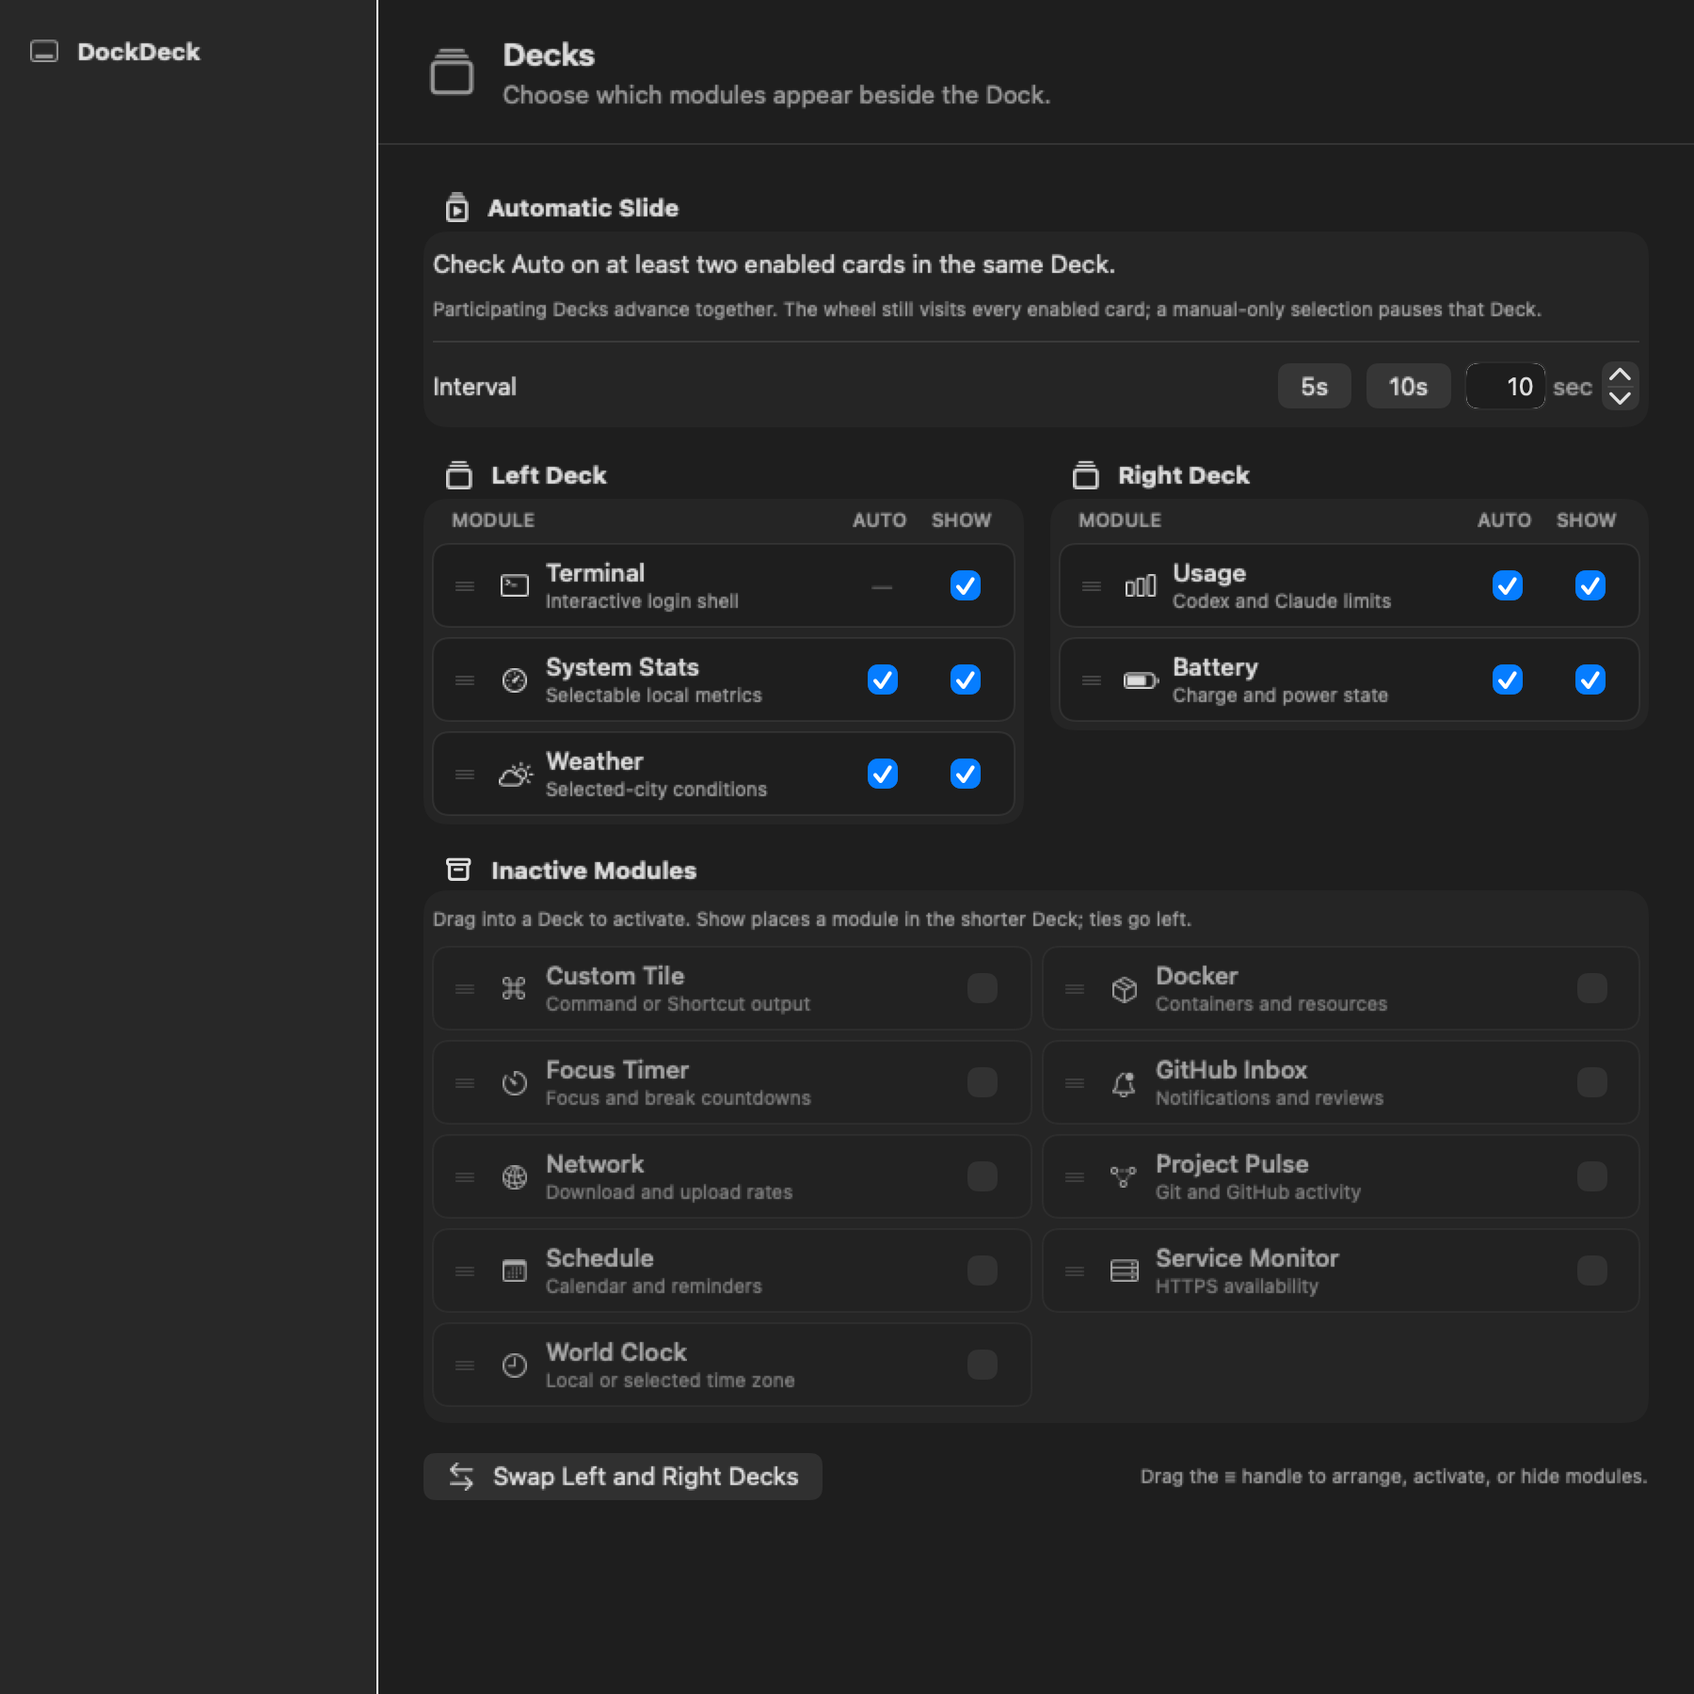
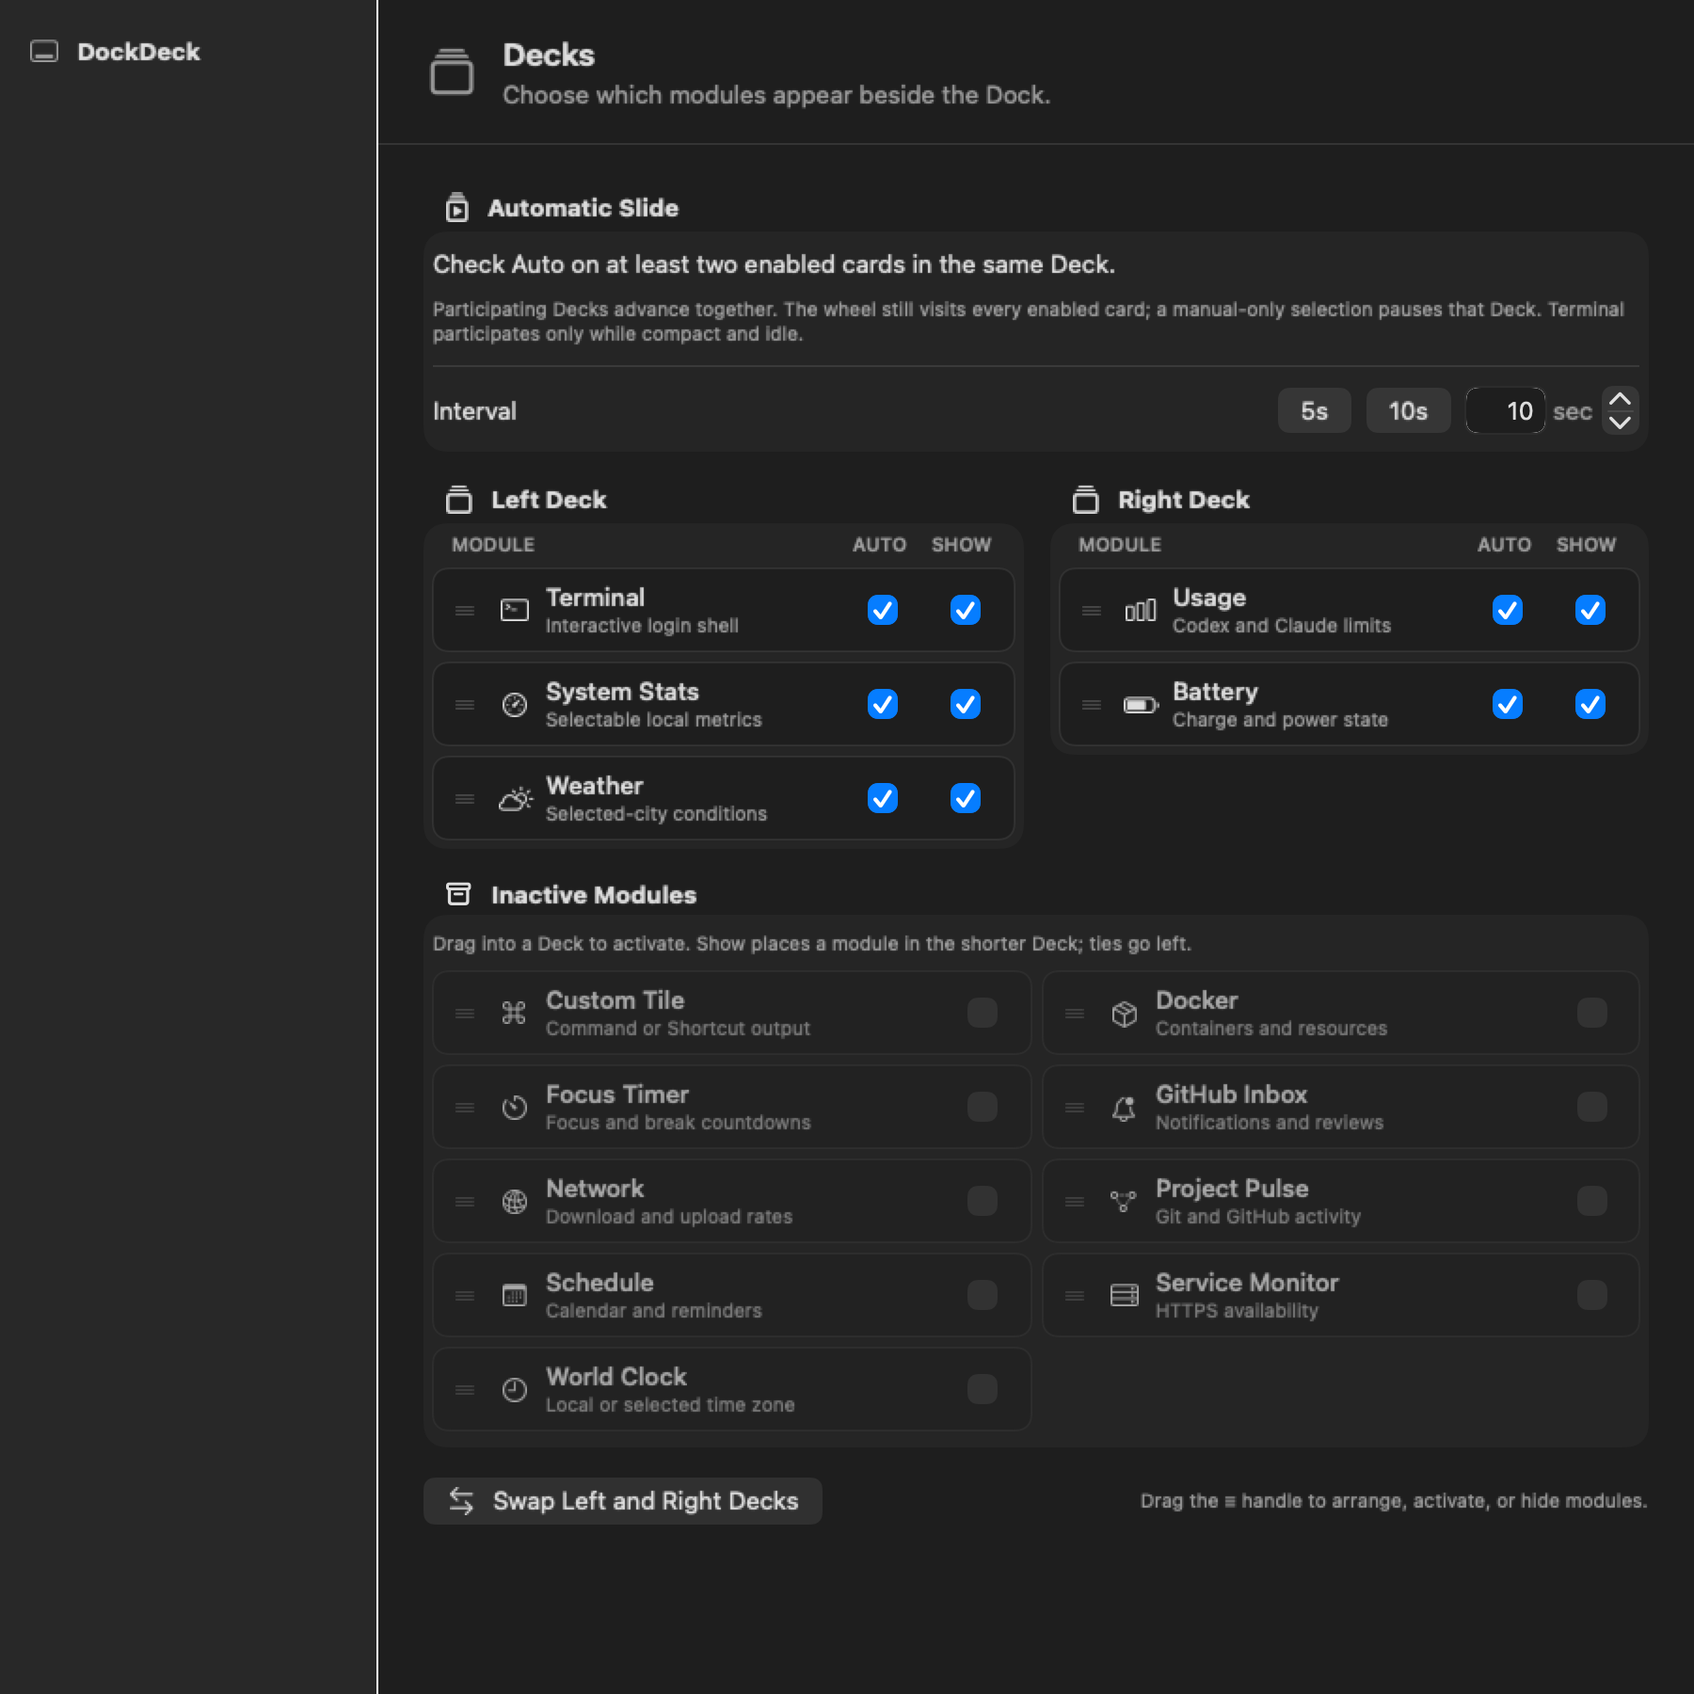
feat(decks): include idle terminal in auto-slide

diff --git a/Tests/DockDeckTests/PanelAppearanceTests.swift b/Tests/DockDeckTests/PanelAppearanceTests.swift
@@ -115,7 +115,7 @@ final class PanelAppearanceTests: XCTestCase {
             DeckAutoSlideSettings.self,
             from: Data(#"{"modules":["weather"]}"#.utf8))
 
-        XCTAssertEqual(settings.modules, [.usage, futureModule])
+        XCTAssertEqual(settings.modules, [.terminal, .usage, futureModule])
         XCTAssertEqual(settings.interval, DeckAutoSlideSettings.minimumInterval)
         XCTAssertEqual(decoded.modules, [.weather])
         XCTAssertEqual(decoded.interval, DeckAutoSlideSettings.defaultInterval)
@@ -269,10 +269,10 @@ final class PanelAppearanceTests: XCTestCase {
         model.setAutoSlideInterval(7.4)
         model.setEnabled(false, for: .weather)
 
-        XCTAssertEqual(model.values.deckAutoSlide.modules, [.usage])
+        XCTAssertEqual(model.values.deckAutoSlide.modules, [.terminal, .usage])
         XCTAssertEqual(model.values.deckAutoSlide.interval, 7)
-        XCTAssertEqual(emittedSettings.count, 4)
-        XCTAssertEqual(emittedSettings.last?.modules, [.usage])
+        XCTAssertEqual(emittedSettings.count, 5)
+        XCTAssertEqual(emittedSettings.last?.modules, [.terminal, .usage])
     }
 
     func testSettingsModelCanEmptyADeck() {
@@ -654,6 +654,53 @@ final class PanelAppearanceTests: XCTestCase {
         XCTAssertEqual(
             manualLeftSteps,
             [DeckAutoSlideStep(side: .right, module: .clock)])
+    }
+
+    func testAutoSlideCanCycleIntoAndOutOfTerminal() {
+        let configuration = PanelDeckConfiguration(
+            left: [.terminal, .weather], right: [.usage],
+            enabled: [.terminal, .weather, .usage])
+        let settings = DeckAutoSlideSettings(modules: [.terminal, .weather])
+
+        XCTAssertEqual(
+            DeckAutoSlidePlanner.steps(
+                settings: settings,
+                configuration: configuration,
+                activeModule: { $0 == .left ? .weather : .usage }),
+            [DeckAutoSlideStep(side: .left, module: .terminal)])
+        XCTAssertEqual(
+            DeckAutoSlidePlanner.steps(
+                settings: settings,
+                configuration: configuration,
+                activeModule: { $0 == .left ? .terminal : .usage }),
+            [DeckAutoSlideStep(side: .left, module: .weather)])
+    }
+
+    func testTerminalAutoSlideRequiresCompactIdlePanel() {
+        XCTAssertFalse(
+            TerminalAutoSlidePolicy.blocksAdvance(
+                mode: .docked, panelIsVisible: true,
+                panelIsKey: false, pointerInside: false))
+        XCTAssertTrue(
+            TerminalAutoSlidePolicy.blocksAdvance(
+                mode: .focused, panelIsVisible: true,
+                panelIsKey: false, pointerInside: false))
+        XCTAssertTrue(
+            TerminalAutoSlidePolicy.blocksAdvance(
+                mode: .large, panelIsVisible: true,
+                panelIsKey: false, pointerInside: false))
+        XCTAssertTrue(
+            TerminalAutoSlidePolicy.blocksAdvance(
+                mode: .docked, panelIsVisible: false,
+                panelIsKey: false, pointerInside: false))
+        XCTAssertTrue(
+            TerminalAutoSlidePolicy.blocksAdvance(
+                mode: .docked, panelIsVisible: true,
+                panelIsKey: true, pointerInside: false))
+        XCTAssertTrue(
+            TerminalAutoSlidePolicy.blocksAdvance(
+                mode: .docked, panelIsVisible: true,
+                panelIsKey: false, pointerInside: true))
     }
 
     func testDeckScrollDirectionUsesVerticalAxis() {

diff --git a/Sources/DockDeck/SettingsPaneViews.swift b/Sources/DockDeck/SettingsPaneViews.swift
@@ -247,7 +247,8 @@ private struct DeckAutoSlideControls: View {
                 Text("Check Auto on at least two enabled cards in the same Deck.")
                 Text(
                     "Participating Decks advance together. The wheel still visits every "
-                        + "enabled card; a manual-only selection pauses that Deck.")
+                        + "enabled card; a manual-only selection pauses that Deck. Terminal "
+                        + "participates only while compact and idle.")
                     .font(.caption)
                     .foregroundStyle(.secondary)
                 Divider()
@@ -1214,24 +1215,16 @@ private struct DeckModuleCard: View {
                     .lineLimit(2)
             }
             Spacer()
-            if isAutoSlideEligible {
-                Toggle(
-                    "Automatically slide \(definition.title)",
-                    isOn: Binding(
-                        get: { model.isAutoSliding(definition.id) },
-                        set: { model.setAutoSlideEnabled($0, for: definition.id) }))
-                    .labelsHidden()
-                    .toggleStyle(.checkbox)
-                    .frame(width: 36)
-                    .disabled(!isEnabled)
-                    .help("Include \(definition.title) in automatic slides")
-            } else {
-                Text("—")
-                    .foregroundStyle(.tertiary)
-                    .frame(width: 36)
-                    .accessibilityLabel("Automatic Slide unavailable for Terminal")
-                    .help("The interactive terminal stays manual")
-            }
+            Toggle(
+                "Automatically slide \(definition.title)",
+                isOn: Binding(
+                    get: { model.isAutoSliding(definition.id) },
+                    set: { model.setAutoSlideEnabled($0, for: definition.id) }))
+                .labelsHidden()
+                .toggleStyle(.checkbox)
+                .frame(width: 36)
+                .disabled(!isEnabled)
+                .help(autoSlideHelp)
             Toggle(
                 "Show \(definition.title)",
                 isOn: Binding(
@@ -1325,7 +1318,12 @@ private struct DeckModuleCard: View {
     }
 
     private var isEnabled: Bool { model.isEnabled(definition.id) }
-    private var isAutoSlideEligible: Bool { definition.id != .terminal }
+    private var autoSlideHelp: String {
+        if definition.id == .terminal {
+            return "Include Terminal while compact and idle; focusing it pauses automatic slides"
+        }
+        return "Include \(definition.title) in automatic slides"
+    }
     private var isRecentlyActivated: Bool {
         !reduceMotion && model.recentlyActivatedModule == definition.id
     }

diff --git a/Sources/DockDeck/AppDelegate+Settings.swift b/Sources/DockDeck/AppDelegate+Settings.swift
@@ -125,6 +125,7 @@ extension AppDelegate {
     func synchronizeDeckAutoSlideTimer() {
         deckAutoSlideTimer?.invalidate()
         deckAutoSlideTimer = nil
+        guard case .docked = terminalPanelMode else { return }
         guard usageDisplayAwake, usageSessionActive,
             settingsPanel?.isVisible != true,
             !deckAutoSlideSteps().isEmpty
@@ -145,21 +146,37 @@ extension AppDelegate {
 
     @discardableResult
     func advanceDeckAutoSlideIfPossible() -> Bool {
+        guard case .docked = terminalPanelMode else { return false }
         guard usageDisplayAwake, usageSessionActive,
             settingsPanel?.isVisible != true
         else { return false }
         let steps = deckAutoSlideSteps()
         guard !steps.isEmpty,
-            steps.allSatisfy({
-                !readOnlyDeckPanelController(on: $0.side).blocksAutoSlideInteraction
-            })
+            steps.allSatisfy({ !blocksAutoSlideInteraction(on: $0.side) })
         else { return false }
 
         for step in steps {
-            readOnlyDeckPanelController(on: step.side).selectForAutoSlide(step.module)
+            if step.module == .terminal {
+                // The terminal owns a separate window. Updating the Deck selection lets the
+                // tracking pass reveal it without making that nonactivating panel key.
+                PanelSettings.setActiveModule(.terminal, on: step.side)
+            } else {
+                readOnlyDeckPanelController(on: step.side).selectForAutoSlide(step.module)
+            }
         }
         deckSelectionsDidAutoSlide(steps.map(\.side))
         return true
+    }
+
+    private func blocksAutoSlideInteraction(on side: PanelSide) -> Bool {
+        guard PanelSettings.activeModule(on: side) == .terminal else {
+            return readOnlyDeckPanelController(on: side).blocksAutoSlideInteraction
+        }
+        return TerminalAutoSlidePolicy.blocksAdvance(
+            mode: terminalPanelMode,
+            panelIsVisible: panel.isVisible,
+            panelIsKey: panel.isKeyWindow,
+            pointerInside: panel.frame.contains(NSEvent.mouseLocation))
     }
 
     private func deckAutoSlideSteps() -> [DeckAutoSlideStep] {

diff --git a/Sources/DockDeck/PanelSettings.swift b/Sources/DockDeck/PanelSettings.swift
@@ -336,7 +336,6 @@ struct DeckAutoSlideSettings: Codable, Equatable {
     }
 
     mutating func setEnabled(_ enabled: Bool, for module: PanelModuleID) {
-        guard module != .terminal else { return }
         modules.removeAll { $0 == module }
         if enabled { modules.append(module) }
         self = normalized()
@@ -345,7 +344,7 @@ struct DeckAutoSlideSettings: Codable, Equatable {
     func normalized() -> Self {
         var seen: Set<PanelModuleID> = []
         let modules = modules.filter {
-            $0 != .terminal && !$0.rawValue.isEmpty && seen.insert($0).inserted
+            !$0.rawValue.isEmpty && seen.insert($0).inserted
         }.prefix(100)
         let interval = interval.isFinite ? interval.rounded() : Self.defaultInterval
         return Self(

diff --git a/Sources/DockDeck/AppDelegate+DockGeometry.swift b/Sources/DockDeck/AppDelegate+DockGeometry.swift
@@ -51,6 +51,7 @@ extension AppDelegate {
     func expandTerminalForFocus() {
         guard !isExpanded, !isFocusExpanded else { return }
         terminalPanelMode = .focused
+        synchronizeDeckAutoSlideTimer()
         applyTerminalAppearance()
         refreshCoarseCaches()
         let presence = resolveDockPresence()
@@ -105,6 +106,9 @@ extension AppDelegate {
             panel.orderOut(nil)
             hideReadOnlyDecks()
         }
+        // Restart from a full interval after terminal interaction instead of rotating
+        // immediately when the user returns it to the Dock.
+        synchronizeDeckAutoSlideTimer()
         debugLog("expand", "returned terminal to Dock")
         updateFallbackHintVisibility()
     }

diff --git a/Sources/DockDeck/AppDelegate.swift b/Sources/DockDeck/AppDelegate.swift
@@ -22,6 +22,18 @@ enum TerminalScrollRoute: Equatable {
     }
 }
 
+enum TerminalAutoSlidePolicy {
+    static func blocksAdvance(
+        mode: TerminalPanelMode,
+        panelIsVisible: Bool,
+        panelIsKey: Bool,
+        pointerInside: Bool
+    ) -> Bool {
+        guard case .docked = mode else { return true }
+        return !panelIsVisible || panelIsKey || pointerInside
+    }
+}
+
 final class AppDelegate: NSObject, NSApplicationDelegate {
     static let accessibilityWarmupDelay: TimeInterval = 3
 

diff --git a/Sources/DockDeck/SettingsPanelModel.swift b/Sources/DockDeck/SettingsPanelModel.swift
@@ -495,7 +495,7 @@ final class SettingsPanelModel: ObservableObject {
     }
 
     func setAutoSlideEnabled(_ enabled: Bool, for module: PanelModuleID) {
-        guard module != .terminal, isEnabled(module) else { return }
+        guard isEnabled(module) else { return }
         var settings = values.deckAutoSlide
         settings.setEnabled(enabled, for: module)
         publishDeckAutoSlide(settings)

diff --git a/Sources/DockDeck/AppDelegate+Menu.swift b/Sources/DockDeck/AppDelegate+Menu.swift
@@ -61,6 +61,7 @@ extension AppDelegate {
         }
 
         terminalPanelMode = .large
+        synchronizeDeckAutoSlideTimer()
         let screen = expansionScreen(fallingBackTo: presence?.host)
         expansionScreenID = screen.flatMap(displayID(of:))
         if let screen {

diff --git a/README.md b/README.md
@@ -69,7 +69,7 @@ DockDeck uses the space beside a bottom-aligned Dock for up to two compact modul
 
 Settings are organized into **General**, **Modules**, and **Interface** sections. Module pages are generated from the same registry that drives the Deck editor. Active cards appear in the Left and Right Decks in their user-defined cycle order; hidden cards are collected in a full-width, two-column **Inactive Modules** tray. Drag a card by its `≡` handle to reorder it, move it between Decks, or hide it in the tray. Dragging an inactive card into either Deck enables it there. Checking **Show** in the tray places it in the Deck with fewer active cards, using the left Deck when both counts match. Relocations animate between sections and newly activated cards receive a brief blue emphasis; macOS Reduce Motion is respected. Equivalent moves are available from each card's context menu. Move every active card to one Deck if you want the other side empty and hidden, or swap the complete left and right Decks. At least one module remains enabled so Settings stays reachable. DockDeck remembers each Deck's selected module and the last Settings page you opened.
 
-Scroll over a compact Deck to cycle every enabled module; a transient page indicator shows the new position. Automatic Slide is off by default. In **Settings → Decks**, check **Auto** on at least two enabled read-only modules in the same Deck and choose a 5–300 second interval. Participating left and right Decks advance together on one shared timer. A Deck cycles only its checked modules; selecting an unchecked module pauses that Deck while the other can continue. Hovering either participating panel, opening Settings, a participating panel's menu or detail window, locking the Mac, or turning off the display defers that shared tick. Terminal always remains manual.
+Scroll over a compact Deck to cycle every enabled module; a transient page indicator shows the new position. Automatic Slide is off by default. In **Settings → Decks**, check **Auto** on at least two enabled modules in the same Deck and choose a 5–300 second interval. Participating left and right Decks advance together on one shared timer. A Deck cycles only its checked modules; selecting an unchecked module pauses that Deck while the other can continue. Hovering either participating panel, opening Settings, a participating panel's menu or detail window, locking the Mac, or turning off the display defers that shared tick. Terminal can participate while compact and idle. Focusing or enlarging it pauses automatic slides; returning it to the Dock starts a complete interval before rotation resumes. Automatic display never takes keyboard focus.
 
 <p align="center">
   <a href="assets/dockdeck-decks-settings.png">

diff --git a/CONTRIBUTING.md b/CONTRIBUTING.md
@@ -88,10 +88,12 @@ swift test
   shorter active Deck with a left-side tie break; an explicit drop must activate
   the module in its target Deck. Preserve independent Deck selections and test
   settings changes against the runtime. Automatic rotation must be opt-in, skip
-  Terminal and unchecked modules, use one shared timer to advance participating
-  Decks in one batch, pause on an unchecked selection or interaction, and
-  suspend with an inactive display or login session. Manual scrolling must
-  continue to include every enabled module.
+  unchecked modules, use one shared timer to advance participating Decks in one
+  batch, pause on an unchecked selection or interaction, and suspend with an
+  inactive display or login session. Terminal may rotate only while compact,
+  visible, unfocused, and not hovered; returning from user interaction must wait
+  one complete interval. Automatic display must not take keyboard focus. Manual
+  scrolling must continue to include every enabled module.
 
 ## PR guidelines
 

diff --git a/docs/modules/terminal.md b/docs/modules/terminal.md
@@ -13,8 +13,11 @@ DockDeck remembers those proportions for the next expansion.
 While a Deck is compact, hover it and scroll up or down to cycle through its
 enabled modules, including Terminal. Focused and large Terminal modes reserve
 the wheel for normal terminal scrollback. Right-click a compact Deck to select a
-module directly. Optional Automatic Slide can rotate checked read-only modules,
-but Terminal is never selected or replaced automatically.
+module directly. Optional Automatic Slide can rotate checked modules, including
+Terminal. Terminal rotates only while it is compact, visible,
+unfocused, and not hovered. Clicking or enlarging it pauses automatic slides;
+returning it to the Dock starts a complete interval before rotation resumes.
+Automatic selection never takes keyboard focus.
 
 `⌘E` selects Terminal and toggles a separate, fixed 75% large-terminal mode.
 The menu action changes to **Return Terminal to Dock** while that mode is
